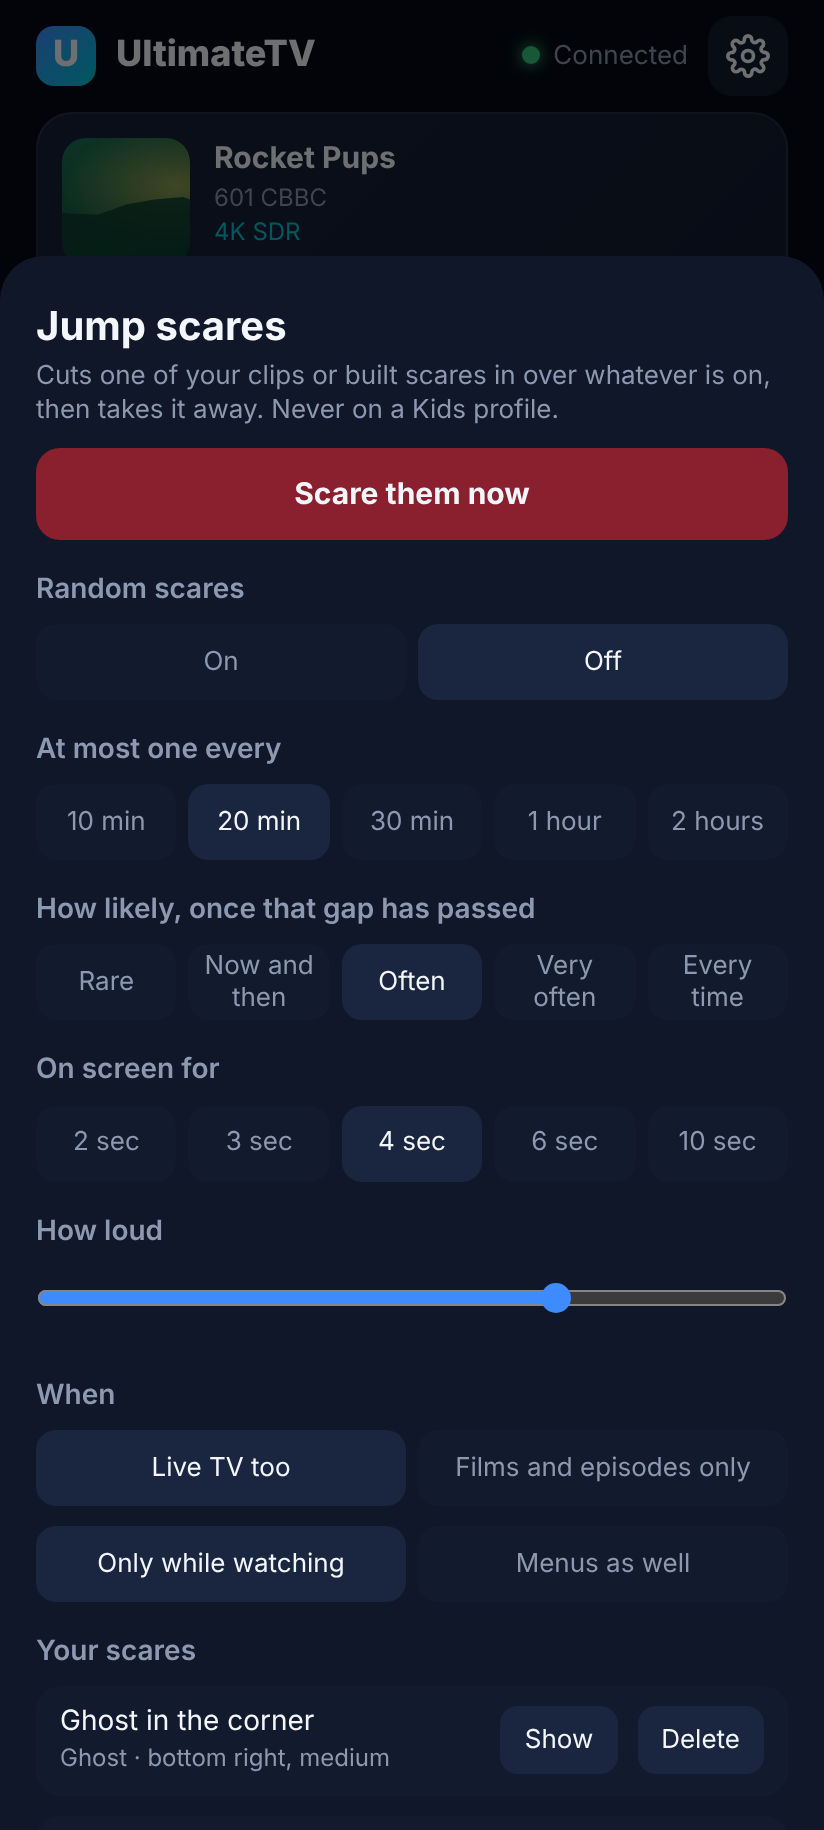
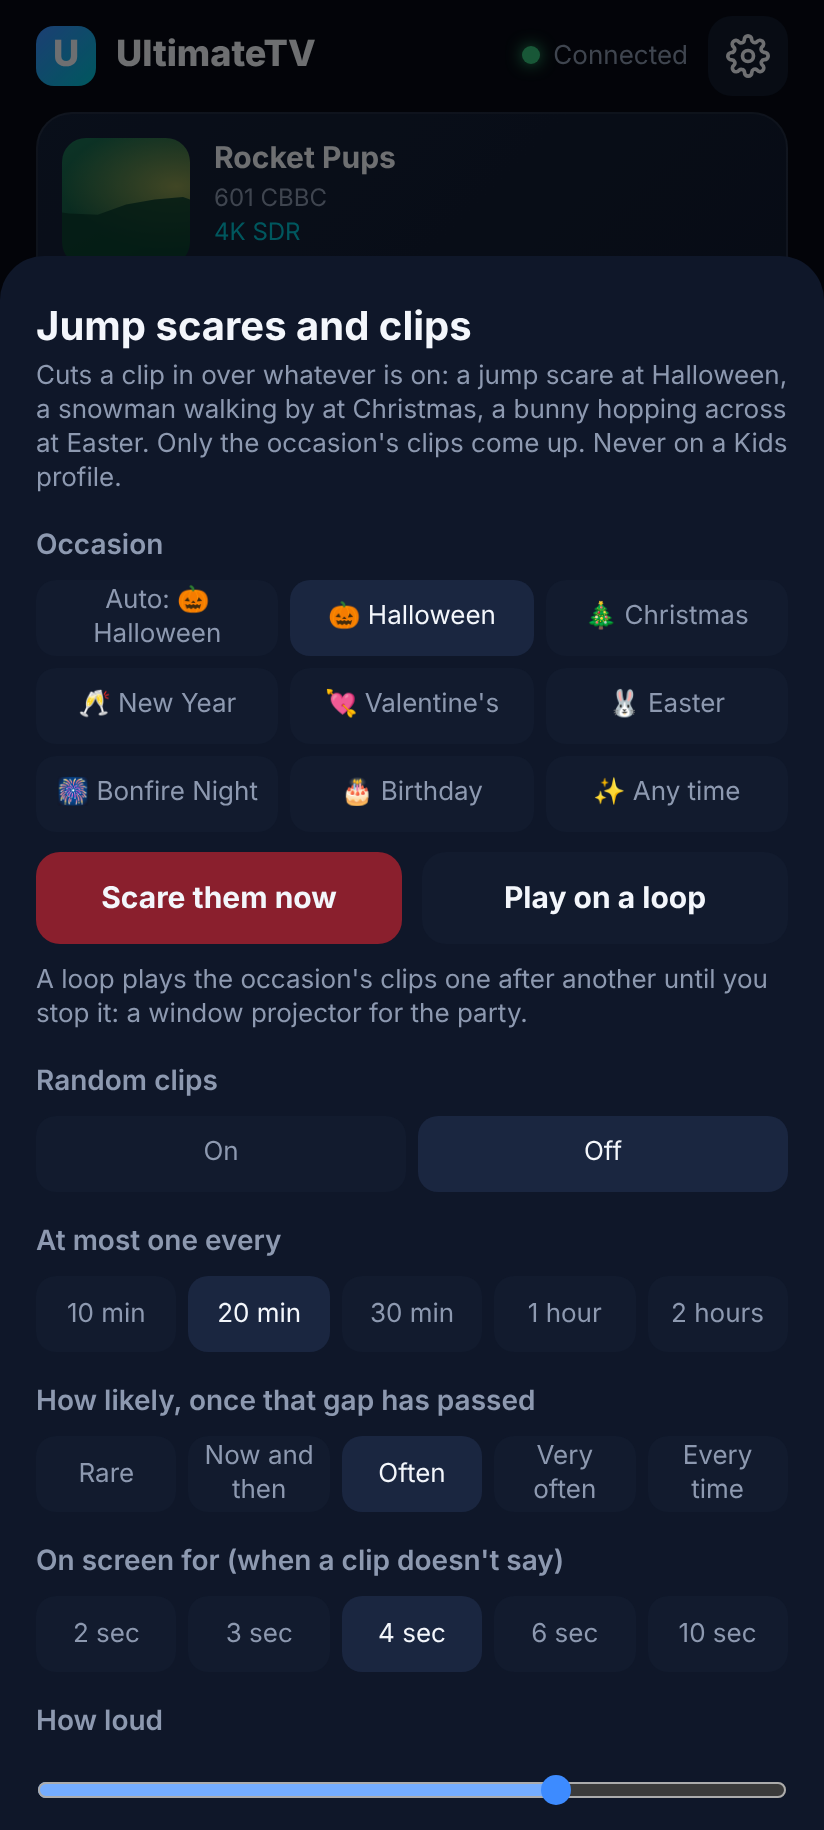
Projected clips: docs, community submission guide and screenshots
Claude-Session: https://claude.ai/code/session_01NwRYZnuQN7gi9GxqXmdPgr

diff --git a/docs/projected-clips.md b/docs/projected-clips.md
@@ -1,0 +1,217 @@
+# Projected clips: seasonal clips, packs and the community list
+
+Jump scares grew up. A **projected clip** is any short picture, video or sound cut in over
+whatever is on: a jump scare at Halloween, a snowman strolling along the bottom of the screen at
+Christmas, the Easter bunny hopping across, hearts floating up on Valentine's, balloons and a
+banner on a birthday, fireworks for Bonfire Night and New Year. Clips can be shared as **packs**,
+and the Hub can browse a **community list** of packs.
+
+Everything from [Halloween's jump scares](halloween.md) still works as before: clips uploaded for
+jump scares, scares built on the phone, the random timer and **Scare them now**.
+
+Never on a Kids profile, as before: the TV leaves clips off there, whoever sends one.
+
+![A snowman walking along the bottom of the screen](screenshots/67-clip-snowman.png)
+![Falling snow over the TV](screenshots/68-clip-snowfall.png)
+![The Easter bunny hopping across](screenshots/69-clip-bunny.png)
+![A Happy Birthday banner dropping in](screenshots/70-clip-birthday.png)
+
+## Occasions
+
+Each built clip is for one occasion, and only the current occasion's clips come up, at random or
+from **Show one now**. The occasion is **Auto** by default, which goes by the date:
+
+| Occasion | Auto picks it |
+| --- | --- |
+| Halloween | 25 October to 1 November |
+| Bonfire Night | 4 to 6 November |
+| Christmas | 1 to 26 December |
+| New Year | 31 December and 1 January |
+| Valentine's | 10 to 14 February |
+| Easter | Palm Sunday to Easter Monday (worked out for each year) |
+| Birthday | never: pick it on the day |
+| Any time | the rest of the year |
+
+Pick one by hand on the phone remote's **Clips** tab (**Occasion**) or on the TV in
+**Settings › Projected clips › Occasion**; pick Auto again afterwards.
+
+Scares built before occasions existed, and pictures and videos uploaded on their own, are
+Halloween's, so a jump scare never turns up at Christmas. With nothing at all for Halloween the TV
+still draws (and screams) its own scare; any other occasion with nothing says so instead.
+
+## The starter packs
+
+Six packs come with the Hub, drawn and synthesised for this project (nobody else's pictures or
+music). Add them all on the TV with **Settings › Projected clips › Add the starter packs**, or one
+at a time on the phone with **Clips › Browse packs**.
+
+| Pack | Clips |
+| --- | --- |
+| Christmas starter | Snowman walks by (sleigh bells), Santa's sleigh across the top (Jingle Bells), Let it snow (falling snow over everything), Tree peeks up (twinkle) |
+| Easter starter | Bunny hops across (boing), Chick says hello (birdsong), Butterflies |
+| Valentine's starter | Hearts floating up (music box), Cupid flies by (harp) |
+| Birthday starter | Balloons floating up (Happy Birthday), Happy Birthday banner dropping in (party horn), Confetti |
+| Halloween starter | Ghost drifts by (ghostly wail), Spider drops in, Bats |
+| Fireworks | Fireworks over everything and a rocket going up, for Bonfire Night and again for New Year |
+
+The pictures are animated SVGs with see-through backgrounds and the sounds are WAVs, made by
+[`tools/packs/make-starter-packs.mjs`](../tools/packs/make-starter-packs.mjs).
+
+## On the phone: the Clips tab
+
+![The phone's Clips tab at Christmas](screenshots/71-phone-clips.png)
+![Packs on the Clips tab](screenshots/72-phone-clip-packs.png)
+
+- **Occasion**: Auto or one by hand.
+- **Show one now** (**Scare them now** at Halloween): one of the occasion's clips on the TV at once.
+- **Play on a loop**: the occasion's clips one after another, a second or few apart, until you
+  press **Stop the loop** or Back on the TV remote. A window projector for a party: put the TV (or
+  a projector on the box) in the window with the snow or the ghosts going.
+- **Random clips** and the rest: as for jump scares (how often, how likely, how loud, live TV too,
+  only while watching).
+- **Built clips**: the occasion's first, each with Show (and Delete, for your own; a pack's go with
+  the pack). **Build one** and **Share as a pack** are under the list.
+- **Packs**: what's installed, with Remove. **Browse packs**, **Add a pack file**, or paste a pack's
+  link.
+- **Your uploads**: pictures, videos and sounds you added yourself (a pack's own files are kept
+  with the pack, not listed here).
+
+### Building a clip
+
+![Building a walking snowman](screenshots/74-phone-build-clip.png)
+
+As for a built scare (picture or video, sound, where, size, how long), plus:
+
+- **For**: the occasion.
+- **Over everything, see-through**: a picture over the whole screen with the programme showing
+  through, for snow, hearts, confetti or fireworks drawn on a transparent background.
+- **Moving**: walks, hops or flies across (left or right) along the row you picked (top, middle or
+  bottom); floats up from the bottom, drops in from the top (and goes back up) or peeks up from the
+  bottom edge, in the column you picked. Picking a motion makes it last 12 seconds, since crossing
+  an 85-inch screen takes longer than a jump scare; built clips can last up to a minute.
+
+A transparent GIF, PNG, WebP or SVG looks best. Animated GIFs and SVGs keep animating while they
+move, so a walking figure can swing its arms.
+
+## Sharing packs
+
+![Sharing as a pack, with a QR code](screenshots/75-phone-share-pack.png)
+![The share page](screenshots/76-clip-share-page.png)
+
+**Share as a pack** puts the built clips you tick, and the pictures and sounds they use, into one
+`.utvpack` file:
+
+- **Make a link and QR code**: a page on the Hub showing the clips with a **Download the pack**
+  button. Anyone on your home Wi-Fi can scan it. The Hub keeps the last 20 links.
+- **Send the file**: the phone's own share sheet (WhatsApp, email, Drive), or a download where the
+  phone has none.
+
+To bring a pack in on another UltimateTV: **Clips › Add a pack file**, or paste a link to a pack
+file into **Or paste a pack's link**. A pack with the same id as one already there replaces it;
+**Remove** takes a pack's clips, built clips and files away together.
+
+Share links only work on your own network: the Hub isn't on the internet. To share further, send
+the file, or put it on the community list.
+
+## The community list
+
+**Browse packs** shows the starter packs and the packs on the community list, a JSON file the Hub
+reads from this repository:
+[`community/clips/index.json`](../community/clips/index.json). It's read when you open Browse packs
+and kept for half an hour.
+
+How it's kept safe:
+
+- **Curated, not open upload.** Packs reach the list only by a pull request to this repository that
+  someone reviews and merges (see [community/clips/README.md](../community/clips/README.md)). There's
+  no upload button pointing at a server anyone could fill.
+- **CI checks every pack** with the Hub's own checks, and checks the list is up to date with the
+  files (`node tools/packs/index-packs.mjs --check`).
+- **Checksums.** Each entry carries the pack's size and SHA-256. The Hub downloads only over https
+  from GitHub (`raw.githubusercontent.com`, `github.com` and GitHub's file hosts), refuses anything
+  bigger than the list says or than 60 MB, and keeps a pack only if its checksum matches.
+- **No executable content.** A pack is JSON with each file inside as base64: no archive to unpack,
+  nowhere for a file to land but the clip folder, under a name the Hub makes up. Each file must
+  really be a picture, video or sound (checked from its first bytes, not what the pack says). SVG
+  pictures are refused if they carry scripts, event handlers, embedded web pages, entities or links
+  to anything outside the picture. Every clip is served with a sandboxing Content-Security-Policy
+  and `nosniff`, and the TV only ever shows clips in `<img>`, `<video>` and `<audio>`.
+- **Limits.** 24 files and 24 built clips a pack, 15 MB a file, 40 MB of files a pack, 20 packs on a
+  Hub.
+- **Scary is labelled.** Jump scares and anything frightening are marked **scary** on the list (the
+  reviewer adds the pack's id to `community/clips/scary.json`), so a family Christmas pack can't
+  hide a jump scare.
+- **Kids profiles never see any clip**, from any pack.
+- **Turn it off.** The list address is a setting (`libraryUrl` in `PUT /api/scares`); an empty one
+  turns the community list off, and a fork can point at its own.
+
+What moderation still depends on: a reviewer looking at every picture and listening to every sound
+before merging (CI can tell a file is a real PNG, not that it's suitable), honest names, and nobody
+sending in pictures or music they don't have the right to share. Pull requests from strangers can
+be closed without merging; a pack that turns out badly is removed from the list by deleting it and
+regenerating the index, and Hubs that installed it keep their copy until someone presses Remove.
+
+## For scripts: the API
+
+Everything the phone does is on the Hub's API (the controlling routes need a paired device or the
+API key, as for jump scares):
+
+| Route | Does |
+| --- | --- |
+| `GET /api/scares` | Settings, clips, built clips, packs, the current occasion and the loop |
+| `PUT /api/scares` | Settings, including `season` (`auto` or an occasion) and `libraryUrl` |
+| `POST /api/scares/now` | `{ mixId }`, `{ clipId }`, `{ theme }` or `{}` for one of the occasion's |
+| `POST /api/scares/loop` | `{ theme }` starts the loop, `{ theme: null }` stops it |
+| `POST /api/scares/mixes` | Builds a clip: `{ visualId, audioId, spot, size, motion, theme, seconds, muteVideo, name }` |
+| `POST /api/scares/packs` | Brings in a pack: the `.utvpack` file as the body |
+| `POST /api/scares/packs/link` | Brings in a pack from `{ url }` |
+| `DELETE /api/scares/packs/:id` | Removes a pack and everything that came with it |
+| `POST /api/scares/packs/export` | `{ name, theme, mixIds }`: the pack file, as a download |
+| `POST /api/scares/shares` | `{ name, mixIds }`: a share link, its pack link and QR code |
+| `GET /clips/share/:id` | The share page |
+| `GET /api/scares/library` | Starter packs and the community list |
+| `POST /api/scares/library/install` | `{ id, from: "starter" \| "community" }` |
+
+A Home Assistant automation could, say, `POST /api/scares/now` with `{ "theme": "christmas" }`
+when the doorbell rings in December.
+
+## The pack format
+
+```json
+{
+  "format": "ultimatetv.clips",
+  "version": 1,
+  "id": "our-christmas",
+  "name": "Our Christmas",
+  "theme": "christmas",
+  "description": "Optional, up to 300 characters",
+  "author": "Optional",
+  "clips": [
+    { "key": "snowman", "name": "Snowman", "type": "image/svg+xml", "data": "<base64>" },
+    { "key": "bells", "name": "Sleigh bells", "type": "audio/wav", "data": "<base64>" }
+  ],
+  "mixes": [
+    { "name": "Snowman walks by", "visual": "snowman", "audio": "bells", "spot": "bottom", "size": "medium", "motion": "walk-left", "seconds": 18 }
+  ]
+}
+```
+
+- `id`: 2 to 48 lower-case letters, digits and dashes.
+- `theme`: `halloween`, `christmas`, `newyear`, `valentines`, `easter`, `bonfire`, `birthday` or
+  `everyday`. A built clip can have its own `theme` (the fireworks pack has New Year ones).
+- `spot`: `top-left`, `top`, `top-right`, `left`, `center`, `right`, `bottom-left`, `bottom`,
+  `bottom-right`, `full` (on black) or `overlay` (see-through, whole screen).
+- `size`: `small`, `medium` or `large` (a third, a half, or most of the screen's height).
+- `motion`: `still`, `walk-left`, `walk-right`, `hop-left`, `hop-right`, `fly-left`, `fly-right`,
+  `rise`, `drop` or `peek`.
+- `seconds`: 0 (the general setting) to 60.
+- Files: MP4, WebM or MOV video; JPEG, PNG, GIF, WebP or SVG picture; MP3, OGG, WAV or M4A sound.
+  Files no built clip uses are dropped.
+
+## Not tested on the box yet
+
+Built and checked with the tests and screenshots in a browser, not on the TV box. Things to try:
+the SVG animations' smoothness on the N150's GPU while a 4K film plays, that the starter packs'
+WAV sounds play over the film's audio, the loop for an evening, and sending a pack between the
+phone and WhatsApp in the Android remote app (its WebView may not offer the share sheet; the
+download link on the share page works there).

diff --git a/community/clips/README.md b/community/clips/README.md
@@ -1,0 +1,30 @@
+# Community clip packs
+
+Packs of projected clips anyone with UltimateTV can add from the phone remote's
+**Clips › Browse packs**. See [docs/projected-clips.md](../../docs/projected-clips.md) for what a
+pack is and how the Hub keeps it safe.
+
+## Sending one in
+
+1. Build your clips on the phone remote and **Share as a pack › Send the file**.
+2. Fork this repository and put the `.utvpack` file in `community/clips/packs/`.
+3. Run `npm ci && npm run build -w shared -w hub && node tools/packs/index-packs.mjs` and commit
+   the updated `index.json`.
+4. Open a pull request saying what's in it and that you made the pictures and sounds yourself (or
+   that their licence lets anyone share them).
+
+## For reviewers
+
+Before merging, for every pack:
+
+- Look at every picture and video, and listen to every sound, on a real screen.
+- Check the name and description say honestly what it is, and that the occasion fits.
+- Anything that could frighten a child: add its id to [`scary.json`](scary.json) and rerun the
+  index script, so the list labels it **scary**.
+- Nothing copyrighted without permission (film clips, chart music, characters).
+- No adverts, no links, no people who haven't agreed to be in it.
+- CI must pass: it runs the Hub's own checks on every pack and checks `index.json` matches the
+  files.
+
+To take a pack down, delete its file, rerun the index script and merge. Hubs that already have it
+keep their copy until they press Remove.

diff --git a/README.md b/README.md
@@ -31,7 +31,7 @@ All the screenshots are in [docs/screenshots](docs/screenshots/README.md). See [
 5. **Music video channels:** Clubland TV, House TV, Halloween TV and Spooky TV fill themselves on the first start; make your own in Settings › Music channels ([docs/music-channels.md](docs/music-channels.md)).
 6. **Profiles:** set a PIN on the adult profile so the children stay in Kids ([docs/profiles.md](docs/profiles.md)).
 7. **Pop-ups:** put the doorbell camera, a meeting or an alarm on the TV from Home Assistant or the phone ([docs/notifications.md](docs/notifications.md)).
-8. **Halloween:** the theme, Spooky TV's ghosts and ghostly sounds, hidden easter eggs and jump scares cut into whatever is on ([docs/halloween.md](docs/halloween.md)).
+8. **Halloween:** the theme, Spooky TV's ghosts and ghostly sounds, hidden easter eggs and jump scares cut into whatever is on ([docs/halloween.md](docs/halloween.md)). Out of season, the same clips become **projected clips** for Christmas, Easter, Valentine's, birthdays and fireworks, with starter packs and shareable packs ([docs/projected-clips.md](docs/projected-clips.md)).
 9. **Trips:** take the box away and the Hub goes with it for a while, then comes home with what changed ([docs/travel.md](docs/travel.md)).
 10. **When something goes wrong:** the Hub collects the box's log, playback samples and screen details at `/api/diagnostics?format=text` ([docs/diagnostics.md](docs/diagnostics.md)).
 

diff --git a/CHANGELOG.md b/CHANGELOG.md
@@ -15,6 +15,16 @@ the commit they were built from in Settings › About, so you can tell exactly w
 
 ## Unreleased
 
+- **Projected clips** ([docs/projected-clips.md](docs/projected-clips.md)): jump scares become
+  clips for any occasion. A snowman walks along the bottom at Christmas, the Easter bunny hops
+  across, hearts float up on Valentine's, a banner drops in on a birthday, fireworks for Bonfire
+  Night and New Year. Built clips say which occasion they're for (Auto goes by the date), can walk,
+  hop, fly, float up, drop in or peek, and can sit see-through over the whole screen. **Play on a
+  loop** turns the TV into a window projector. Six starter packs come with the Hub. Clips can be
+  shared as a pack file or a link and QR code, and the phone's **Browse packs** reads a curated
+  community list from this repository (GitHub only, checksummed, every file checked). The phone's
+  Scares tab is now **Clips**; Settings › Jump scares is **Projected clips**. Update the Hub and the
+  box.
 - **Steady update status**: the phone's Updates card no longer flips between "Couldn't check" and
   "Update available". The Hub keeps GitHub's last answer (a quick reload used to drop it), shares
   one check between everyone asking, waits a minute after a failure and falls back to git's own

diff --git a/docs/halloween.md b/docs/halloween.md
@@ -65,6 +65,11 @@ name, so new ones appear and ones the household deleted stay deleted.
 
 ## Jump scares
 
+Jump scares are now one kind of [projected clip](projected-clips.md): the same clips, built
+clips and settings, with occasions (Christmas, Easter and more), moving clips, packs to share and
+starter packs. The phone's **Scares** tab is now **Clips**, and **Settings › Jump scares** on the TV
+is **Settings › Projected clips**.
+
 A clip cut in **full screen over whatever is on**, for a few seconds, then gone. OK or Back takes
 it away early. Never on a Kids profile, and never while the app is in the background.
 
